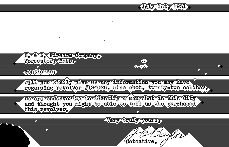
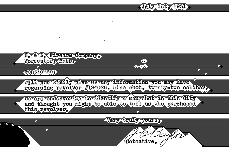
Working on partial image output
Saving it so that I can upgrade OS X to Yosemite

diff --git a/src/libSeamCarve.c b/src/libSeamCarve.c
@@ -68,6 +68,9 @@ struct areaOfInterest {
 
 	int domainSize;
 	int rangeSize;
+
+	int *pathBegin;
+	int *pathEnd;
 };
 
 // Simple energy function, basically a gradient magnitude calculation
@@ -169,7 +172,22 @@ static void printSeam(int *seamPath, int *image, int imageWidth, int imageHeight
 	}
 }
 
-//static int findSeamsHorizontal(int *imageSeams, int imageWidth, int imageHeight, int *imageOrig)
+static void savePartialImage(int *image, struct areaOfInterest *interestingArea)
+{
+	int imageWidth = interestingArea->imageWidth;
+	int imageHeight = interestingArea->imageHeight;
+	int *partialImage = (int*)xmalloc((unsigned long)imageWidth * (unsigned long)imageHeight * sizeof(int));
+
+	// int currentPixel = 0;
+	// for (int j = imageHeight; j > 0; --j) {
+	// 	currentPixel = seamPath[j];
+	// 	image[currentPixel] = grayScale;
+	// }
+}
+
+//
+// TODO: Refactor, this function is a beast
+// 
 static int findSeams(int *imageSeams, int imageWidth, int imageHeight, int *imageOrig, int direction)
 {
 	// TODO: create macro definition
@@ -291,6 +309,8 @@ static int findSeams(int *imageSeams, int imageWidth, int imageHeight, int *imag
 	struct areaOfInterest *interestingArea = (struct areaOfInterest*)xmalloc(sizeof(struct areaOfInterest));
 	interestingArea->imageWidth = imageWidth;
 	interestingArea->imageHeight = imageHeight;
+	interestingArea->pathBegin = (int*)xmalloc((unsigned long)imageSize * sizeof(int));
+	interestingArea->pathEnd = (int*)xmalloc((unsigned long)imageSize * sizeof(int));
 
 	// for every pixel in the right-most or bottom-most column of the image
 	for (int k = loopBeg; k < loopEnd; k += loopInc) {
@@ -427,6 +447,7 @@ static int findSeams(int *imageSeams, int imageWidth, int imageHeight, int *imag
 					printSeam(thisPath, imageOrig, imageWidth, imageHeight, direction, 128);
 					printf("%d\t%d\t%d\t%d\t%d\t BEGIN \n", lastSeamDeviation, lastSeamDeviationABS, seamDeviation, seamDeviationABS, textLineDepth);
 
+					interestingArea->pathBegin = thisPath;
 					interestingArea->rangeBeginEntry = thisPath[0];
 					thisMinMax = findSeamMinMax(thisPath, imageWidth, imageHeight, direction);
 					interestingArea->rangeBeginMin = thisMinMax->min;
@@ -485,6 +506,7 @@ static int findSeams(int *imageSeams, int imageWidth, int imageHeight, int *imag
 							printSeam(thisPath, imageOrig, imageWidth, imageHeight, direction, 0);
 							printf("%d\t%d\t%d\t%d\t%d\t END \n", lastSeamDeviation, lastSeamDeviationABS, seamDeviation, seamDeviationABS, textLineDepth);
 
+							interestingArea->pathEnd = thisPath;
 							interestingArea->domainMin = infoAreaXYmin;
 							interestingArea->domainMax = infoAreaXYmax;
 							interestingArea->domainSize = ((interestingArea->domainMax % imageSize) + 1) - ((interestingArea->domainMin % imageSize) + 1);
@@ -504,6 +526,8 @@ static int findSeams(int *imageSeams, int imageWidth, int imageHeight, int *imag
 							printf("Domain size: %d\n", interestingArea->domainSize);
 							printf("Range size: %d\n", interestingArea->rangeSize);
 							printf(" ----- \n");
+
+							savePartialImage(interestingArea);
 
 							infoAreaXYmin = 0;
 							infoAreaXYmax = 0;
